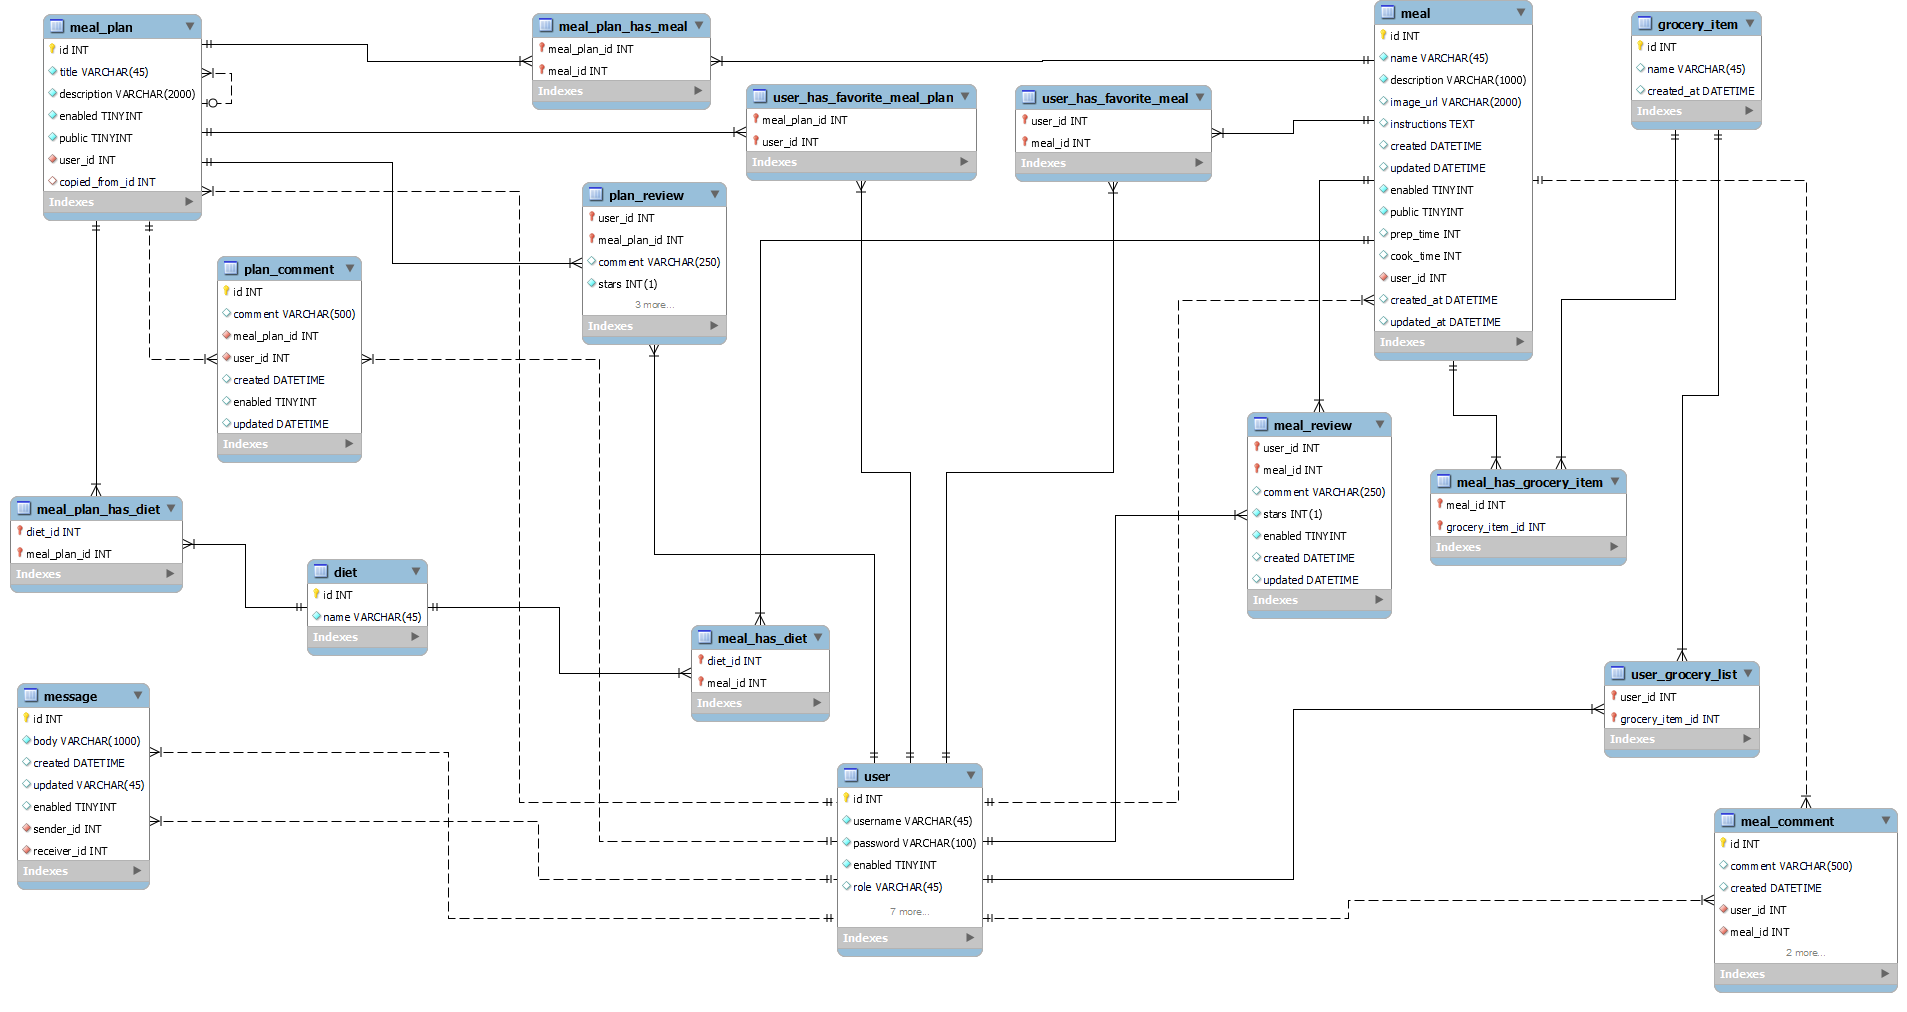
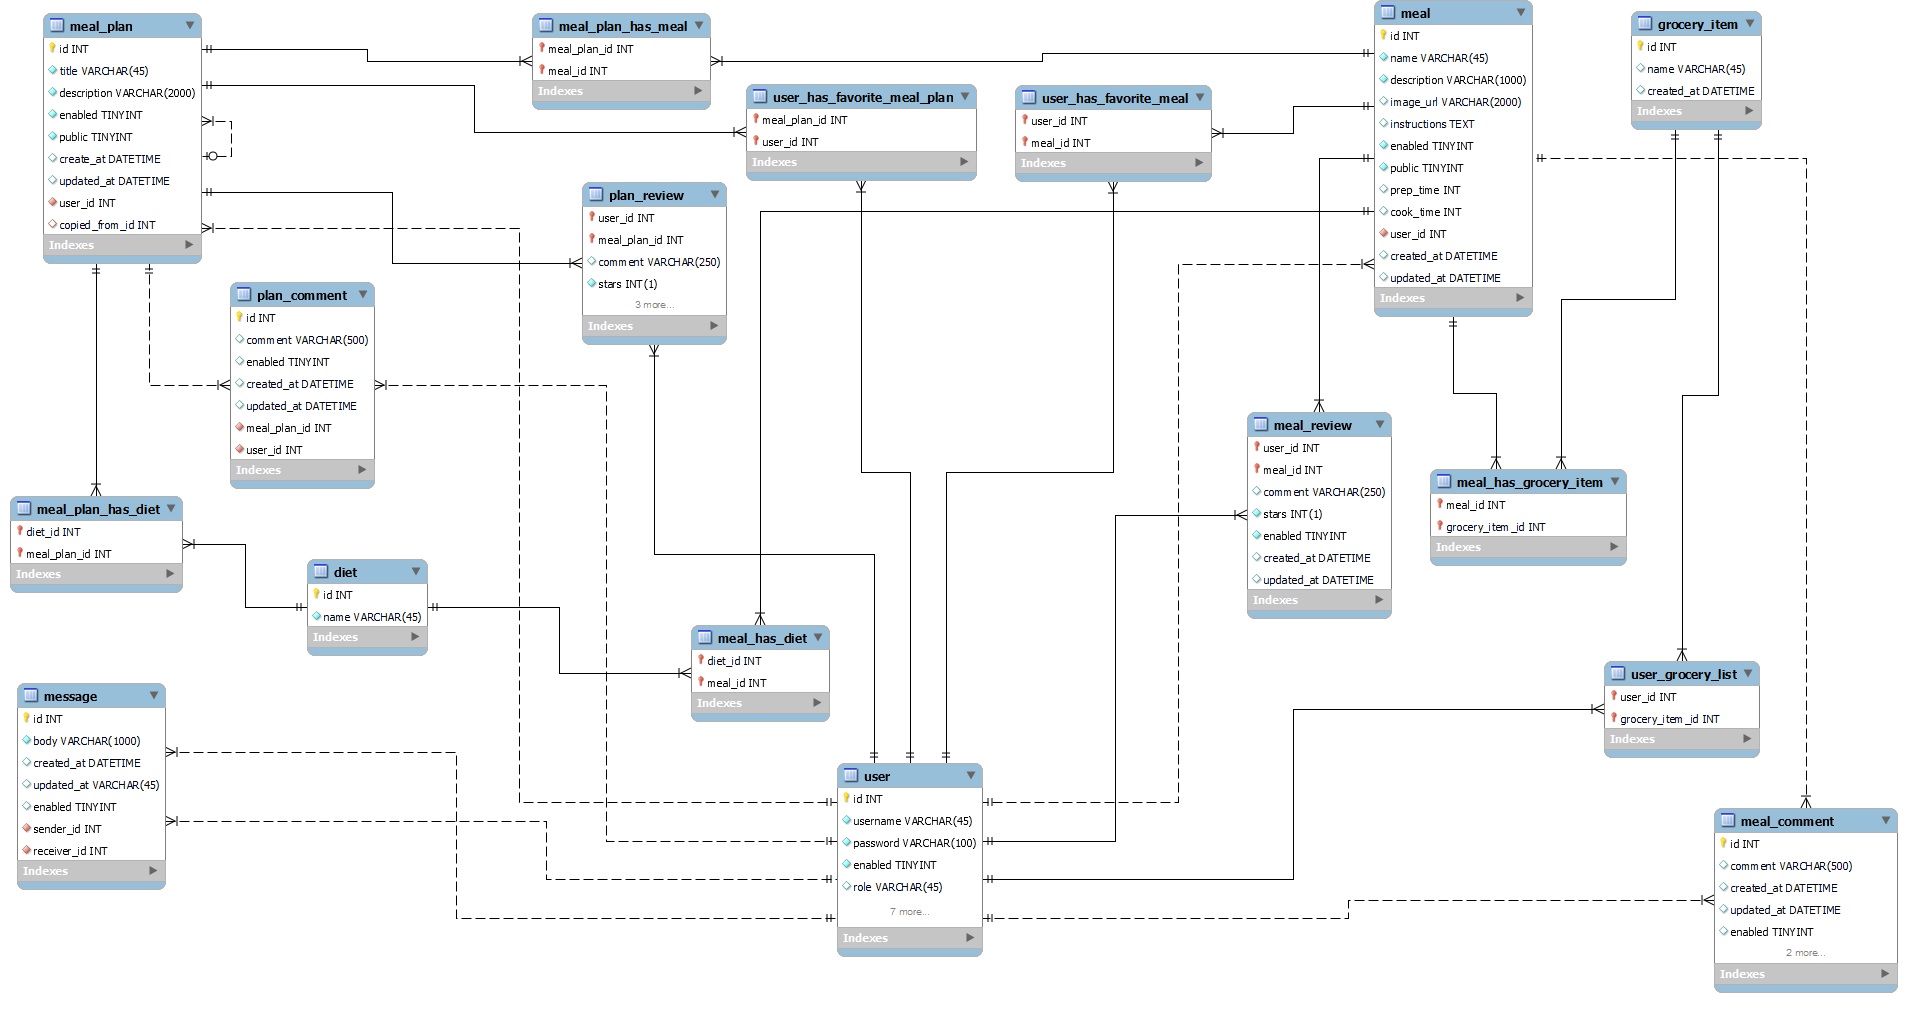
Additions to persistence.xml, Database Updated,MealPlan entity stubbed

diff --git a/JPAMeals/src/main/java/com/skilldistillery/meals/entities/MealPlan.java b/JPAMeals/src/main/java/com/skilldistillery/meals/entities/MealPlan.java
@@ -1,0 +1,101 @@
+package com.skilldistillery.meals.entities;
+
+import java.util.Objects;
+
+import javax.persistence.Column;
+import javax.persistence.Entity;
+import javax.persistence.GeneratedValue;
+import javax.persistence.GenerationType;
+import javax.persistence.Id;
+import javax.persistence.Table;
+
+@Entity
+@Table(name="meal_plan")
+public class MealPlan {
+
+	@Id
+	@GeneratedValue(strategy = GenerationType.IDENTITY)
+	private int id;
+	
+	private String title;
+	
+	private String description;
+	
+	private boolean enabled;
+	
+	@Column(name="public")
+	private boolean visible;
+
+	public MealPlan() {
+		super();
+	}
+
+	public int getId() {
+		return id;
+	}
+
+	public void setId(int id) {
+		this.id = id;
+	}
+
+	public String getTitle() {
+		return title;
+	}
+
+	public void setTitle(String title) {
+		this.title = title;
+	}
+
+	public String getDescription() {
+		return description;
+	}
+
+	public void setDescription(String description) {
+		this.description = description;
+	}
+
+	public boolean isEnabled() {
+		return enabled;
+	}
+
+	public void setEnabled(boolean enabled) {
+		this.enabled = enabled;
+	}
+
+	public boolean isVisible() {
+		return visible;
+	}
+
+	public void setVisible(boolean visible) {
+		this.visible = visible;
+	}
+
+	@Override
+	public int hashCode() {
+		return Objects.hash(id);
+	}
+
+	@Override
+	public boolean equals(Object obj) {
+		if (this == obj)
+			return true;
+		if (obj == null)
+			return false;
+		if (getClass() != obj.getClass())
+			return false;
+		MealPlan other = (MealPlan) obj;
+		return id == other.id;
+	}
+
+	@Override
+	public String toString() {
+		return "MealPlan [id=" + id + ", title=" + title + ", description=" + description + ", enabled=" + enabled
+				+ ", visible=" + visible + "]";
+	}
+	
+	
+	
+	
+	
+	
+}
